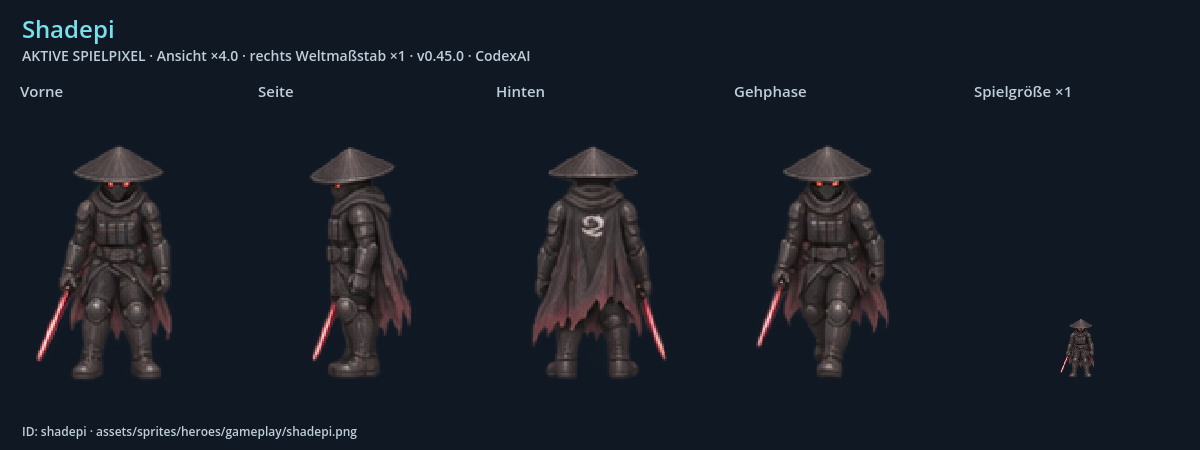
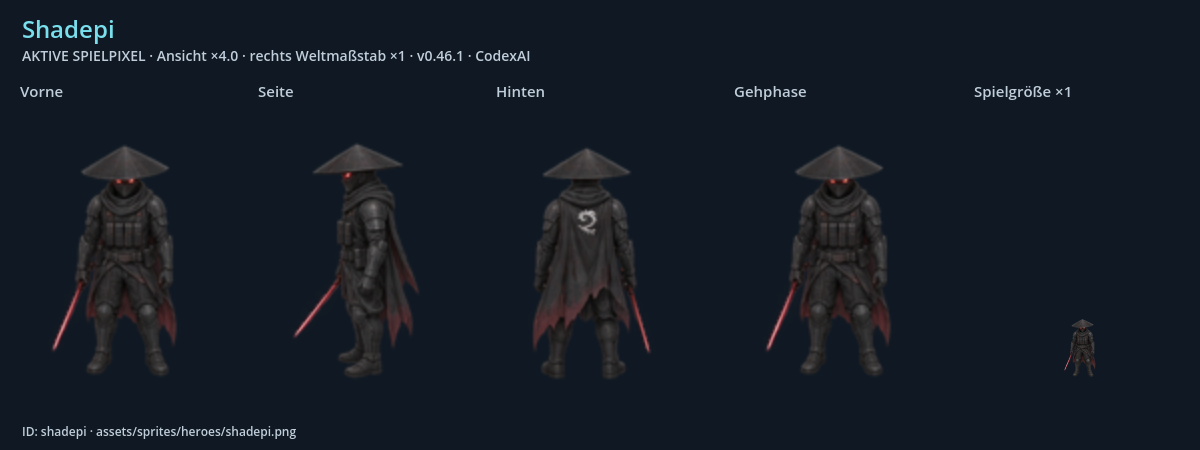
v0.46.1 CodexAI: Original-Sprites von Raven und Shadepi wiederherstellen

diff --git a/docs/arbeiten/original-helden-v0461.md b/docs/arbeiten/original-helden-v0461.md
@@ -1,0 +1,42 @@
+# Originalhelden wiederherstellen · v0.46.1 · CodexAI
+
+## Auftrag und Quellen
+
+Nutzer wünscht die Original-Sprites zurück, da die neuen normalen Heldenbilder nicht gefallen. Ausgang `37fa48e`, v0.46.0; lokal sauber. Alle Remote-Branches abgerufen: main aktuell, übrige bekannte Branches unverändert höchstens v0.21.3. Keine fremden Änderungen zurückgesetzt. AGENTS, KONSISTENZ, Art Direction, Figurenkatalog und Arbeitsvorlage berücksichtigt. Gesichtet: Original-Spielvergleich `bericht-heroes-backup-v045.png` und aktueller nativer Vergleich v0.46.1. Keine neue Grafikgenerierung.
+
+Aktive Originale `assets/sprites/heroes/raven.png` / `shadepi.png` sind unverändert und bytegleich zu `backup-v0441`. Wieder 1024×5120, acht Richtungen und acht Phasen je Reihe, 128×160-Zellen, Maßstab 0,5, Fußbasis 152 und Y-Versatz -36. Ravens bestätigte 160 cm und Shadepis geschlossene Maske bleiben erhalten; keine neue Gesichtsauslegung. Die zwei automatischen Umleitungen in `SpriteAssets.resolve` entfernt. Custom-Ersetzungen behalten Vorrang. Die verworfenen Bilder bleiben historisch erhalten, nicht als aktueller Stilstandard.
+
+## Umfang und Kontaktprüfung
+
+Normale Helden und deren Figurenkarten zurückgestellt, Heiligtum-Kontaktposen wieder mit passender linearer Verkleinerung. Nach Sonderposen wird auch der normale Körper-/Schattenfilter zurückgesetzt. Sonstige Reaktionen, Treffer-/Todesbilder, Kampfbewegungen, korrigierte Wege/Szenen und Blut-FX erhalten. Kein pauschaler Git-Revert der v0.45.0-/v0.46.0-Commits und keine Spielstandänderung.
+
+| Prüffeld | Ergebnis |
+| --- | --- |
+| Originalquellen / Proportion | Bytegleichheit der beiden Originale und Backups geprüft; aktive Originalpfade, 8×32 Raster und Maßstab in allen acht Gehrichtungen/acht Phasen geprüft. |
+| Anker / Schatten / Spezialbewegung | Originalfußbasis bleibt fest; Körper-/Schattenframe synchron. Aufladen, Kick, Hand-/Pistolenaustritte und Rückkehr zum Original geprüft. |
+| Sichtprüfung | Aktuelle native Godot/OpenGL-Aufnahme bei derselben Kamera wie alter Vergleich. Film aus 130 echten Rendererframes: Stand, vier Richtungen, achtphasige Gehfolgen und Rückkehr. Beide Heldenkarten plus vollständige 23-Figuren-Übersicht erneuert. |
+| Controller / Tastatur / Ton | Belegung, Spielregeln und Klänge nicht verändert; bestehende Kampf-/Kernprüfungen verwendet. Kein neuer manueller Controller-/Hörtest; Aufnahme mit Dummy-Audio. |
+| Pause / Laden / Abbruch | Keine neue Effektuhr oder Speicherpflicht. Bestehende Ablauf-/Reaktionsprüfungen weiter aktiv und bestanden. |
+| Export | Externes Prüfen aus leerem Arbeitsverzeichnis: tatsächliche Originaltexturen, Pixelgleichheit der importierten Backups, Raster/Skala/Anker, Sonderposen-Rückkehr und weiter enthaltene Blutquelle. Native Ansicht aus dem Paket aufgenommen. |
+| Dokumentation | Aktuelle PNG-Vorschauen, Original- und verworfene Quellen klar gekennzeichnet; KONSISTENZ/Art Direction auf aktuelle Originale zurückgeführt. Historischer v0.45.0-Bericht erhält Hinweis. |
+
+## Aktuelle Tests
+
+Godot 4.7.2, isolierte `XDG_DATA_HOME`-Verzeichnisse, keine echten Spielstände als Fixtures.
+
+| Suite | Prüfungen | Fehler |
+| --- | ---: | ---: |
+| Kern | 383 | 0 |
+| Kampfbewegungen | 68 | 0 |
+| Raven-/Gegnerkampf | 292 | 0 |
+| Fehlerbericht / originale Heldenzyklen | 420 | 0 |
+| Blut-FX | 29 | 0 |
+| Heiligtumgrafiken | 18 | 0 |
+| **Regression gesamt** | **1.210** | **0** |
+| Export zusätzlich | 12 | 0 |
+
+Tests erwarten wieder die tatsächliche Originaldarstellung; übrige Reportprüfungen erhalten. Editorimport und Pack-Export ohne Skriptfehler, `/tmp/shadepi-v0.46.1.pck`; `PACKED ORIGINALS: 12 checks, 0 failures`. Temporäre Protokolle `/tmp/shadepi-v0461-*.log`.
+
+**Sichtprüfung:** CodexAI, 9. November 2026 (Europe/Berlin). [Aktuelle Spielansicht und Gehfilm](../original-helden.md). Die Aufnahme ist ein QA-Aufbau mit vorhandenen normalen Figuren, kein vollständig manuell erspielter Abschnitt. Historische Berichte behalten ihren damaligen Aufnahmestand. Verworfen bedeutet hier nicht aus der Git-Historie gelöscht.
+
+**Sicherung:** Version 0.46.1 / Windows 0.46.1.0, CodexAI. Alle Remote-Branches vor Beginn und Abschluss abgeglichen; main weiterhin `37fa48e`, übrige Branches höchstens v0.21.3. Geprüften Stand auf GitHub main gesichert. Keine Cloud-Veröffentlichung oder Release-Erstellung.

diff --git a/KONSISTENZ.md b/KONSISTENZ.md
@@ -1,6 +1,6 @@
 # Verbindliche Konsistenzvorlage für ShadepiRPG
 
-**Stand v0.46.0 · CodexAI · 9. November 2026; eingeführt mit v0.32.1.** Gilt für das gesamte Spiel und alle Mitwirkenden, ob Mensch oder KI. Vor Änderungen zusammen mit [AGENTS.md](AGENTS.md) lesen und die [Arbeitsvorlage](docs/vorlagen/konsistenz-auftrag.md) verwenden. Eine neuere ausdrückliche Nutzervorgabe hat Vorrang; bestätigte Änderungen anschließend hier und in den betroffenen Referenzen nachführen.
+**Stand v0.46.1 · CodexAI · 9. November 2026; eingeführt mit v0.32.1.** Gilt für das gesamte Spiel und alle Mitwirkenden, ob Mensch oder KI. Vor Änderungen zusammen mit [AGENTS.md](AGENTS.md) lesen und die [Arbeitsvorlage](docs/vorlagen/konsistenz-auftrag.md) verwenden. Eine neuere ausdrückliche Nutzervorgabe hat Vorrang; bestätigte Änderungen anschließend hier und in den betroffenen Referenzen nachführen.
 
 ## Bebilderter Einstieg für das gesamte Spiel
 
@@ -77,15 +77,17 @@ Ravens frühere 168-cm-Angabe ist überholt. Für Shadepi hier keine unbestätig
 - Kamera, Perspektive, Lichtseite und Detaildichte an die aktive Szene anpassen. Kontaktschatten, Verdeckung und Bodenbezug zusammen mit dem Sprite prüfen.
 - Farbwirkung aus der jeweiligen Referenz ableiten: Cyan/Magenta in der Stadt, warme Ordens-/Wohnräume, eigene virtuelle Farbwelt. Neue exakte Farbwerte nicht nachträglich als angebliche Originalpalette ausgeben.
 
-### Technische Ausgangswerte des Helden-Renderers · v0.45.0 · CodexAI
+### Technische Ausgangswerte des Helden-Renderers · v0.46.1 · CodexAI
 
-| Eigenschaft | Aktueller HQ-Heldenvertrag |
+Auf ausdrücklichen Nutzerwunsch wieder die Originale. Die v0.45.0-Variante unter `heroes/gameplay` ist verworfen und darf nicht automatisch erneut aktiviert werden.
+
+| Eigenschaft | Aktueller Original-Heldenvertrag |
 | --- | --- |
-| Aktive Quellen | `assets/sprites/heroes/gameplay/`: Raven 1247×1261, Shadepi 1263×1245; je 64 Posen. |
-| Regionen | `poses.json` enthält vollständige Ausschnitte, Sohlenanker, Maßstab und Mündung je Pose. Ungleichmäßige Abstände: kein blindes 8×8-Zuschneiden. |
-| Körpermaß | Bereitschaft und vier Gehphasen je Richtung rund 58 sichtbare Weltpixel. Keine allgemeine Umrechnung in Zentimeter. |
-| Darstellung | Pro Actor ein `AtlasTexture`, gemeinsam für Körper und Schatten; Nearest. Kick, Charge und Handblitze behalten bestehende Sonderbilder. |
-| Originale | Alte 1024×5120-Blätter unverändert; zusätzlich unter `backup-v0441` gesichert. NPC-/Custom-Atlanten behalten ihren eigenen Vertrag. |
+| Aktive Quellen | `assets/sprites/heroes/raven.png` und `shadepi.png`, unveränderte 1024×5120-Originale. |
+| Raster | Acht Spalten, 32 Reihen: acht Richtungen, Bereitschaft/Gehen/Angriff/Treffer, acht Phasen pro Reihe. |
+| Maßstab / Fußkontakt | Maßstab 0,5; Quell-Fußbasis Y=152, normaler Spriteversatz Y=-36. Sichtbare frontale Höhe ungefähr 57–59 Weltpixel, keine Zentimeterumrechnung. |
+| Darstellung | Lineare Verkleinerung wie vor v0.45.0, übereinstimmende Körper-/Schattenframes. Bestehende Sonderangriffe und Hand-/Mündungsanker erhalten. |
+| Sicherungen | Bytegleiche Kopien unter `backup-v0441`; Custom-Ersetzungen behalten ihren Vorrang. |
 | Spielbild | Gameplay-Basis 640×360; Menü eigener Renderer in Fensterauflösung. |
 
 Sonderatlanten für Sitzen, Liegen, Gegner oder Menü folgen ihren eigenen Metadaten. **Keinen universellen Maßstabsfaktor auf alle Grafiken anwenden.** Bei Schlafposen die Körperlänge statt der geringen liegenden Höhe vergleichen; bei Sitzposen Beinwinkel und Stuhlhöhe einbeziehen. Ein Atlaswechsel muss Körpergröße, Fußbasis und Schatten erhalten. Benutzerdefinierte Sprite-Ersetzungen gemäß `SpriteAssets.resolve()` respektieren.

diff --git a/docs/stilbibel/artdirection.md b/docs/stilbibel/artdirection.md
@@ -39,11 +39,11 @@ Das sind Rollen der vorhandenen Bildfarben, keine neu behauptete exakte Original
 
 ![Figuren und Gegenstände im gleichen Weltmaßstab](bilder/requisiten-2.png)
 
-Das Gameplay nutzt 640 × 360 als Basis; das Menü rendert eine eigene größere Komposition. **v0.45.0 · CodexAI:** Normale Helden verwenden die [neuen Gameplay-Quellen](../../assets/sprites/heroes/gameplay/README.md) mit einzeln registrierten vollständigen Regionen statt gleichmäßiger Zellen. Bereitschaft und Gehen haben rund 58 Weltpixel sichtbare Höhe. Die alten 128×160-Zellen bleiben für unveränderte NPC-/Custom-Quellen und die gesicherten Heldenoriginale relevant. Raven ist verbindlich **160 cm** groß; daraus folgt kein allgemeiner Pixel-pro-Zentimeter-Faktor.
+Das Gameplay nutzt 640×360 als Basis; das Menü rendert eine eigene größere Komposition. **v0.46.1 · CodexAI:** Auf ausdrücklichen Nutzerwunsch verwenden Raven und Shadepi wieder die unveränderten Originale unter `assets/sprites/heroes/`: 1024×5120, 128×160-Zellen, Maßstab 0,5, acht Gehphasen je Richtung. Sichtbare frontale Höhe ungefähr 57–59 Weltpixel. Die v0.45.0-Gameplay-Variante ist verworfen; nicht erneut automatisch aktivieren. [Aktuelle Spielansicht](../original-helden.md). Raven ist verbindlich **160 cm** groß; daraus folgt kein allgemeiner Pixel-pro-Zentimeter-Faktor.
 
 Andere Figuren und Objekte haben eigene Maßstäbe. Krieger, Zivilpersonen und Minotaurus verwenden ihre JSON-Anker; Requisiten verwenden `PropArt.SIZES`. Sitzen und Liegen werden nach Körperlänge und Kontaktflächen kalibriert. Höhe eines Kastens, Länge eines Autos und Größe einer Person mit derselben Weltkamera vergleichen. Transparenter Zellrand ist kein Körpermaß.
 
-Neue Gameplay-Helden und die angeglichenen Heiligtum-Kontaktposen nutzen Nearest; ältere NPC-/Sonderquellen behalten ihre eigene Abtastung. Eine neue Pose muss zur tatsächlich benachbarten Figur passen. Eine globale Umstellung aller Filter folgt daraus nicht. Keine scharfen Freistellshader über einen grauen oder weißen Hintergrund legen, um mangelhafte Transparenz zu verdecken.
+Originalhelden und angeglichene Heiligtum-Kontaktposen nutzen wieder lineare Verkleinerung; NPC-/Sonderquellen behalten ihre eigene Abtastung. Eine neue Pose muss zur tatsächlich benachbarten Figur passen. Eine globale Umstellung aller Filter folgt daraus nicht. Keine scharfen Freistellshader über einen grauen oder weißen Hintergrund legen, um mangelhafte Transparenz zu verdecken.
 
 ## Bewegung, Inszenierung und Wirkung
 

diff --git a/docs/README.md b/docs/README.md
@@ -1,8 +1,14 @@
 # Shadepi · Bilder, Filme und Dokumentation
 
-**Stand v0.46.0 · CodexAI · 9. November 2026.** [Zur Repository-Startseite](../README.md) · [Spieleranleitung](../Spiel-README.md) · [Versionshinweise](../CHANGELOG.md).
+**Stand v0.46.1 · CodexAI · 9. November 2026.** [Zur Repository-Startseite](../README.md) · [Spieleranleitung](../Spiel-README.md) · [Versionshinweise](../CHANGELOG.md).
 
 Die Bilder öffnen den jeweiligen Bericht. Dort findest du größere Spielaufnahmen, animierte Szenenfilme, Bedienung und technische Hinweise. Die PNG-Vorschauen sind direkt in GitHub sichtbar; die Filme bleiben zusätzlich als verlinkte WebP-Dateien erreichbar.
+
+## Originalhelden wieder aktiv · v0.46.1 · CodexAI
+
+[![Originale Raven-/Shadepi-Sprites im aktuellen Spielrenderer](previews/original-helden-v0461.png)](original-helden.md)
+
+[Rückkehr zu den Originalen](original-helden.md) · [Lauf-/Richtungsfilm](previews/original-helden-v0461.webp). Die übrigen Korrekturen und Bluteffekte bleiben erhalten. Ältere Aufnahmen darunter zeigen ihren damaligen Stand.
 
 ## Blutspritzer und Lachen · v0.46.0 · CodexAI
 
@@ -13,9 +19,9 @@ Die Bilder öffnen den jeweiligen Bericht. Dort findest du größere Spielaufnah
 
 ## Fehlerbericht und Heldenqualität · v0.45.0 · CodexAI
 
-| Neue Standardfiguren, Originale gesichert | Figurenreaktionen und korrigierte Szenen |
+| Originalfiguren wieder aktiv · v0.46.1 | Figurenreaktionen und korrigierte Szenen |
 | --- | --- |
-| [![Neue Helden mit registrierten Sohlenkontakten](previews/bericht-heroes-new-v045.png)](fehlerbericht-v045.md) | [![Chrome Jackal nach seinem letzten Treffer](previews/bericht-jackal-ground-v045.png)](fehlerbericht-v045.md) |
+| [![Originalhelden in der aktuellen Spielansicht](previews/original-helden-v0461.png)](original-helden.md) | [![Chrome Jackal nach seinem letzten Treffer](previews/bericht-jackal-ground-v045.png)](fehlerbericht-v045.md) |
 | [Zwölf Berichtspunkte, Größen und Vorher/Nachher](fehlerbericht-v045.md) | [Szenenfilm](previews/fehlerbericht-szenen-v045.webp) · [Prüf-/Exportnachweis](arbeiten/fehlerbericht-v045.md) |
 
 ## Menü und Test-Kontrollpunkte · v0.44.1

diff --git a/docs/stilbibel/README.md b/docs/stilbibel/README.md
@@ -1,5 +1,7 @@
 # ShadepiRPG · bebilderte Stilbibel für das gesamte Spiel
 
+**Originalhelden v0.46.1 · CodexAI – ausdrücklicher Nutzerwunsch:** [Raven und Shadepi wieder in Originalgrafik](../original-helden.md). Aktive Standardquellen sind wieder `assets/sprites/heroes/raven.png` und `shadepi.png`, 1024×5120, 8×32 Raster, acht Gehphasen, Maßstab 0,5, Fußbasis 152, lineare Verkleinerung. Automatische Umleitung auf `heroes/gameplay` entfernt; diese Variante ist verworfen. Nicht ungefragt erneut aktivieren. Heiligtum-Kontaktposen wieder linear zu den Originalhelden. Übrige Fehlerkorrekturen, Sonderangriffe und Blut-FX erhalten. Figurenkarten müssen die aktiven Originale zeigen; die nachfolgenden v0.45.0-Angaben sind historisch.
+
 **Gameplay-Figuren / Fehlerbericht v0.45.0 · CodexAI:** [Zwölf Berichtspunkte und native Vergleiche](../fehlerbericht-v045.md). [Neue Heldenquellen](../../assets/sprites/heroes/gameplay/README.md) besitzen tatsächliche Einzelregionen, Sohlenanker und Mündungen in `poses.json`, rund 58 Weltpixel Stand-/Gehhöhe und Nearest. Keine gleichmäßigen Zellen annehmen. Pro Actor Atlas und Metadaten, kein globaler Ressourcen-Cache. Alte Helden vollständig gesichert; NPC-/Custom-Verträge erhalten. Ersatzreaktionen blenden Körper und beide Schatten aus und müssen bei Abbruch idempotent bereinigt werden. Die folgende historische Angabe zur linearen Heldenabtastung ist für neue Gameplay-/Heiligtum-Posen überholt.
 
 **Menü / Test-Kontrollpunkte v0.44.0 · CodexAI:** [Sohlenkontakt, Desktop und 40 direkte Test-Einstiege](../menue-kontrollpunkte.md). Vier statische Anker aus `boot_contacts()` einschließlich Ravens eigener Transformation; `menu_contacts.gdshader` bleibt auch in reduziertem Stil aktiv und vor der Dachkante begrenzt. `checkpoint_resume.gd` trennt Modus und normale/Test-Dateien; optionale Zeitmetadaten mit Legacy-Fallback. `test_checkpoints.gd` nur für vorgegebene sichere Zustände und separaten Admin-Dateiraum. Kontrollpunkt-Test benötigt isoliertes `XDG_DATA_HOME=/tmp/shadepi-…`; keine echten Spielstände als Fixtures verwenden.

diff --git a/AGENTS.md b/AGENTS.md
@@ -1,5 +1,7 @@
 # Zusammenarbeit an ShadepiRPG
 
+**Originalhelden v0.46.1 · CodexAI – ausdrücklicher Nutzerwunsch:** [Raven und Shadepi wieder in Originalgrafik](docs/original-helden.md). Aktive Standardquellen sind wieder `assets/sprites/heroes/raven.png` und `shadepi.png`, 1024×5120, 8×32 Raster, acht Gehphasen, Maßstab 0,5, Fußbasis 152, lineare Verkleinerung. Automatische Umleitung auf `heroes/gameplay` entfernt; diese Variante ist verworfen. Nicht ungefragt erneut aktivieren. Heiligtum-Kontaktposen wieder linear zu den Originalhelden. Übrige Fehlerkorrekturen, Sonderangriffe und Blut-FX erhalten. Figurenkarten müssen die aktiven Originale zeigen; die nachfolgenden v0.45.0-Angaben sind historisch.
+
 **Blut-FX v0.46.0 · CodexAI:** [Treffer, Tropfen und Bodenlachen](docs/bluteffekte.md). `blood_fx.gd` hängt kosmetisch an positiven `register_hit`-Treffern echter `Enemy`-Figuren. Keine Übertragung auf digitale/technische Gegner. Feste registrierte Pixelquellen, Bodenlage z=-5 unter Actors, Luftlage separat, Mengenbegrenzung und Lebenszeiten erhalten. Beim Laden/Abschnittswechsel/Neustart alle Daten leeren; Pause und Terminal halten die Uhren an. Keine Pflichtfelder in Spielständen. [Gezielte Regression](tests/blood_fx.gd).
 
 **Gameplay-Figuren / Fehlerbericht v0.45.0 · CodexAI:** [Zwölf Berichtspunkte und native Vergleiche](docs/fehlerbericht-v045.md). [Neue Heldenquellen](assets/sprites/heroes/gameplay/README.md) besitzen tatsächliche Einzelregionen, Sohlenanker und Mündungen in `poses.json`, rund 58 Weltpixel Stand-/Gehhöhe und Nearest. Keine gleichmäßigen Zellen annehmen. Pro Actor Atlas und Metadaten, kein globaler Ressourcen-Cache. Alte Helden vollständig gesichert; NPC-/Custom-Verträge erhalten. Ersatzreaktionen blenden Körper und beide Schatten aus und müssen bei Abbruch idempotent bereinigt werden. Die folgende historische Angabe zur linearen Heldenabtastung ist für neue Gameplay-/Heiligtum-Posen überholt.

diff --git a/assets/sprites/heroes/backup-v0441/README.md b/assets/sprites/heroes/backup-v0441/README.md
@@ -1,7 +1,7 @@
-# Unveränderte Helden-Backups · v0.45.0 · CodexAI
+# Unveränderte Helden-Backups · v0.46.1 · CodexAI
 
-`raven.png` und `shadepi.png` sind bytegleiche Sicherungen der bis v0.44.1 verwendeten Originale (1024×5120, 8 Richtungen, 8 Bilder je Animationsreihe). Auch die bisherigen Dateien eine Ebene darüber bleiben unverändert erhalten; `SpriteAssets.resolve()` wählt standardmäßig die neuen Gameplayquellen.
+`raven.png` und `shadepi.png` sind bytegleiche Sicherungen der Originale (1024×5120, acht Richtungen und acht Phasen je Animationsreihe).
 
-Zum bewussten Rückfall können diese PNGs in den vorhandenen Ordner `assets/custom/` unter den Namen `raven.png` beziehungsweise `shadepi.png` kopiert werden. Eigene Dateien haben weiter Vorrang. Bestehende eigene Figuren zuerst sichern. Zum erneuten Verwenden der neuen Standards die betreffenden eigenen Ersatzdateien wieder entfernen. Spielstände sind davon unabhängig.
+**Die Originale sind seit v0.46.1 wieder der aktive Standard:** `assets/sprites/heroes/raven.png` und `assets/sprites/heroes/shadepi.png`. `SpriteAssets.resolve()` ersetzt sie nicht mehr durch die verworfene Gameplay-Variante. Ein Kopieren in `assets/custom` ist für die Rückkehr nicht nötig; vorhandene eigene Ersetzungen behalten ihren Vorrang. Spielstände bleiben kompatibel.
 
-Der Regressionstest vergleicht Original und Backup per SHA-256; das Exportpaket wird zusätzlich auf identische decodierte Bilddaten geprüft. [Neue Quelle und Metadaten](../gameplay/README.md).
+[Originalgrafiken und aktuelle Spielansicht](../../../../docs/original-helden.md).

diff --git a/docs/original-helden.md b/docs/original-helden.md
@@ -1,0 +1,13 @@
+# Raven und Shadepi wieder in Originalgrafik
+
+**v0.46.1 · CodexAI · 9. November 2026.** [Bildgalerie](README.md) · [Arbeits-/Prüfnachweis](arbeiten/original-helden-v0461.md).
+
+Auf ausdrücklichen Nutzerwunsch verwenden beide Helden wieder ihre unveränderten Original-Sprites: `assets/sprites/heroes/raven.png` und `shadepi.png`. Die automatische Ersetzung durch die v0.45.0-Variante ist entfernt. Acht Richtungen, acht Gehphasen, Originalmaßstab und ursprüngliche Abtastung sind wieder aktiv. Nach Sonderangriffen wird diese Abtastung ebenfalls wiederhergestellt.
+
+![Original-Raven und -Shadepi im tatsächlichen Spielrenderer, v0.46.1](previews/original-helden-v0461.png)
+
+[**Kurzen Film mit Richtungs- und Gehwechseln öffnen**](previews/original-helden-v0461.webp)
+
+Die aktuelle Aufnahme stammt aus Godot 4.7.2 / OpenGL, mit den echten normalen Spielfiguren und derselben Kamera wie der vorherige Vergleich. QA platziert die Figuren im Straßenraum und spielt ihre vorhandenen Laufphasen ab. Keine neue Grafikgenerierung oder nachgezeichneten Ersatzfiguren.
+
+Die übrigen Fehlerkorrekturen, Sonderangriffe, Szenenreaktionen und Bluteffekte bleiben erhalten. Bestehende Spielstände und eigene Sprite-Ersetzungen funktionieren weiter. Die verworfenen v0.45.0-Dateien bleiben als historische Quelle erhalten und werden nicht automatisch aktiviert. Die beiden Heldenkarten und die vollständige 23-Figuren-Übersicht der [Stilbibel](stilbibel/figuren.md) zeigen wieder die Originale.

diff --git a/CHANGELOG.md b/CHANGELOG.md
@@ -1,5 +1,12 @@
 # Versionshinweise
 
+## v0.46.1 – CodexAI: Original-Sprites für Raven und Shadepi wiederhergestellt · 9. November 2026
+
+- Auf ausdrücklichen Nutzerwunsch automatische Ersetzung der beiden unveränderten Original-Heldenblätter durch `heroes/gameplay` entfernt. Wieder acht Richtungen und acht Phasen je Reihe, Maßstab 0,5 und ursprüngliche lineare Verkleinerung. Nach Sonderposen auch die normale Abtastung zurücksetzen; Heiligtum-Kontaktposen wieder daran angleichen.
+- Übrige Fehlerkorrekturen, neue Szenenreaktionen, Sonderangriffe und Bluteffekte erhalten. Keine Änderung der Spielstände oder Custom-Priorität. Verworfene Variante als historische Quelle gekennzeichnet.
+- Beide Figurenkarten und vollständige Übersicht mit 23 Figuren erneuert, aktive Konsistenzregeln und PNG-Vorschauen korrigiert. Keine neue Grafikgenerierung. 1.210 gezielte Prüfungen ohne Fehler; Originale und Export zusätzlich nativ geprüft.
+- [Aktuelle Originalhelden und Gehfilm](docs/original-helden.md), [Arbeits-/Exportnachweis](docs/arbeiten/original-helden-v0461.md).
+
 ## v0.46.0 – CodexAI: Pixel-Blutspritzer und Bodenlachen bei Gegnertreffern · 9. November 2026
 
 - Neue transparente HQ-Pixelquelle mit vier gerichteten Spritzphasen und vier Bodenformen. Blut beginnt am getroffenen Körper; Tropfen fallen auf den Boden, bei Tod wächst eine größere Lache mit dunkler gesetzter Darstellung. Kurz dem tatsächlichen Leichenrutschen folgen, danach ortsfest unter den Figuren bleiben.

diff --git a/Spiel-README.md b/Spiel-README.md
@@ -1,6 +1,8 @@
 # Shadepi · Echos in Neon
 
-**Spieleranleitung für v0.46.0 · CodexAI.** Aktuelle Downloads: [Releases](https://github.com/Inrouder/ShadepiRPG/releases/latest) · Prüfstatus: [Repository-Startseite](README.md) · Änderungen: [Versionshinweise](CHANGELOG.md).
+**Spieleranleitung für v0.46.1 · CodexAI.** Aktuelle Downloads: [Releases](https://github.com/Inrouder/ShadepiRPG/releases/latest) · Prüfstatus: [Repository-Startseite](README.md) · Änderungen: [Versionshinweise](CHANGELOG.md).
+
+**Originalhelden v0.46.1 · CodexAI:** Raven und Shadepi verwenden wieder ihre ursprünglichen Sprites mit achtphasigen Laufanimationen. Die neue v0.45.0-Figurenvariante ist zurückgenommen. Fehlerkorrekturen, Sonderangriffe und Bluteffekte bleiben erhalten. [Aktuelles Spielbild und Film](docs/original-helden.md).
 
 **Kampfeffekte v0.46.0 · CodexAI:** Echte Treffer an menschlichen Gegnern erzeugen gerichtete Pixel-Blutspritzer und fallende Tropfen. Nach dem Tod wächst eine dunkle Lache am Boden. Blockierte Treffer und technische Gegner behalten ihre passenden Effekte. Pause hält die Effekte an; der reduzierte Bildstil verringert die Menge. [Bilder und Film](docs/bluteffekte.md).
 

diff --git a/docs/stilbibel/figuren.md b/docs/stilbibel/figuren.md
@@ -1,5 +1,7 @@
 # Figurenkatalog · v0.32.2 · CodexAI
 
+**Aktueller Stand v0.46.1 · CodexAI:** Originalhelden wieder aktiv; beide Karten und die vollständige Übersicht zeigen wieder diese Quellen. [Spielansicht und Rückkehr](../original-helden.md). Der folgende v0.45.0-Eintrag dokumentiert die inzwischen verworfene Zwischenfassung.
+
 **Aktualisierung v0.45.0 · CodexAI:** Heldenkarten und vollständige 23-Figuren-Übersicht aus den aktiven Gameplay-Quellen erneuert. [Neue Quellen und Anker](../../assets/sprites/heroes/gameplay/README.md), [Originale als Backup](../../assets/sprites/heroes/backup-v0441/README.md), [Spielvergleich](../fehlerbericht-v045.md).
 
 **Aktualisierung v0.39.0 · CodexAI:** [Plattformfahrt und Hangarentdeckung](../hangar-entdeckung.md), vier eigene Shadepi-Schalterposen, sechs Entriegelungsbilder und texturierter Schacht. Fahrt mit den tatsächlichen Figuren; danach identischer Aerodyne in normaler Erkundung und Film. [Aktive Quellen und Kontaktanker](../../assets/story/hangar-discovery/README.md).
